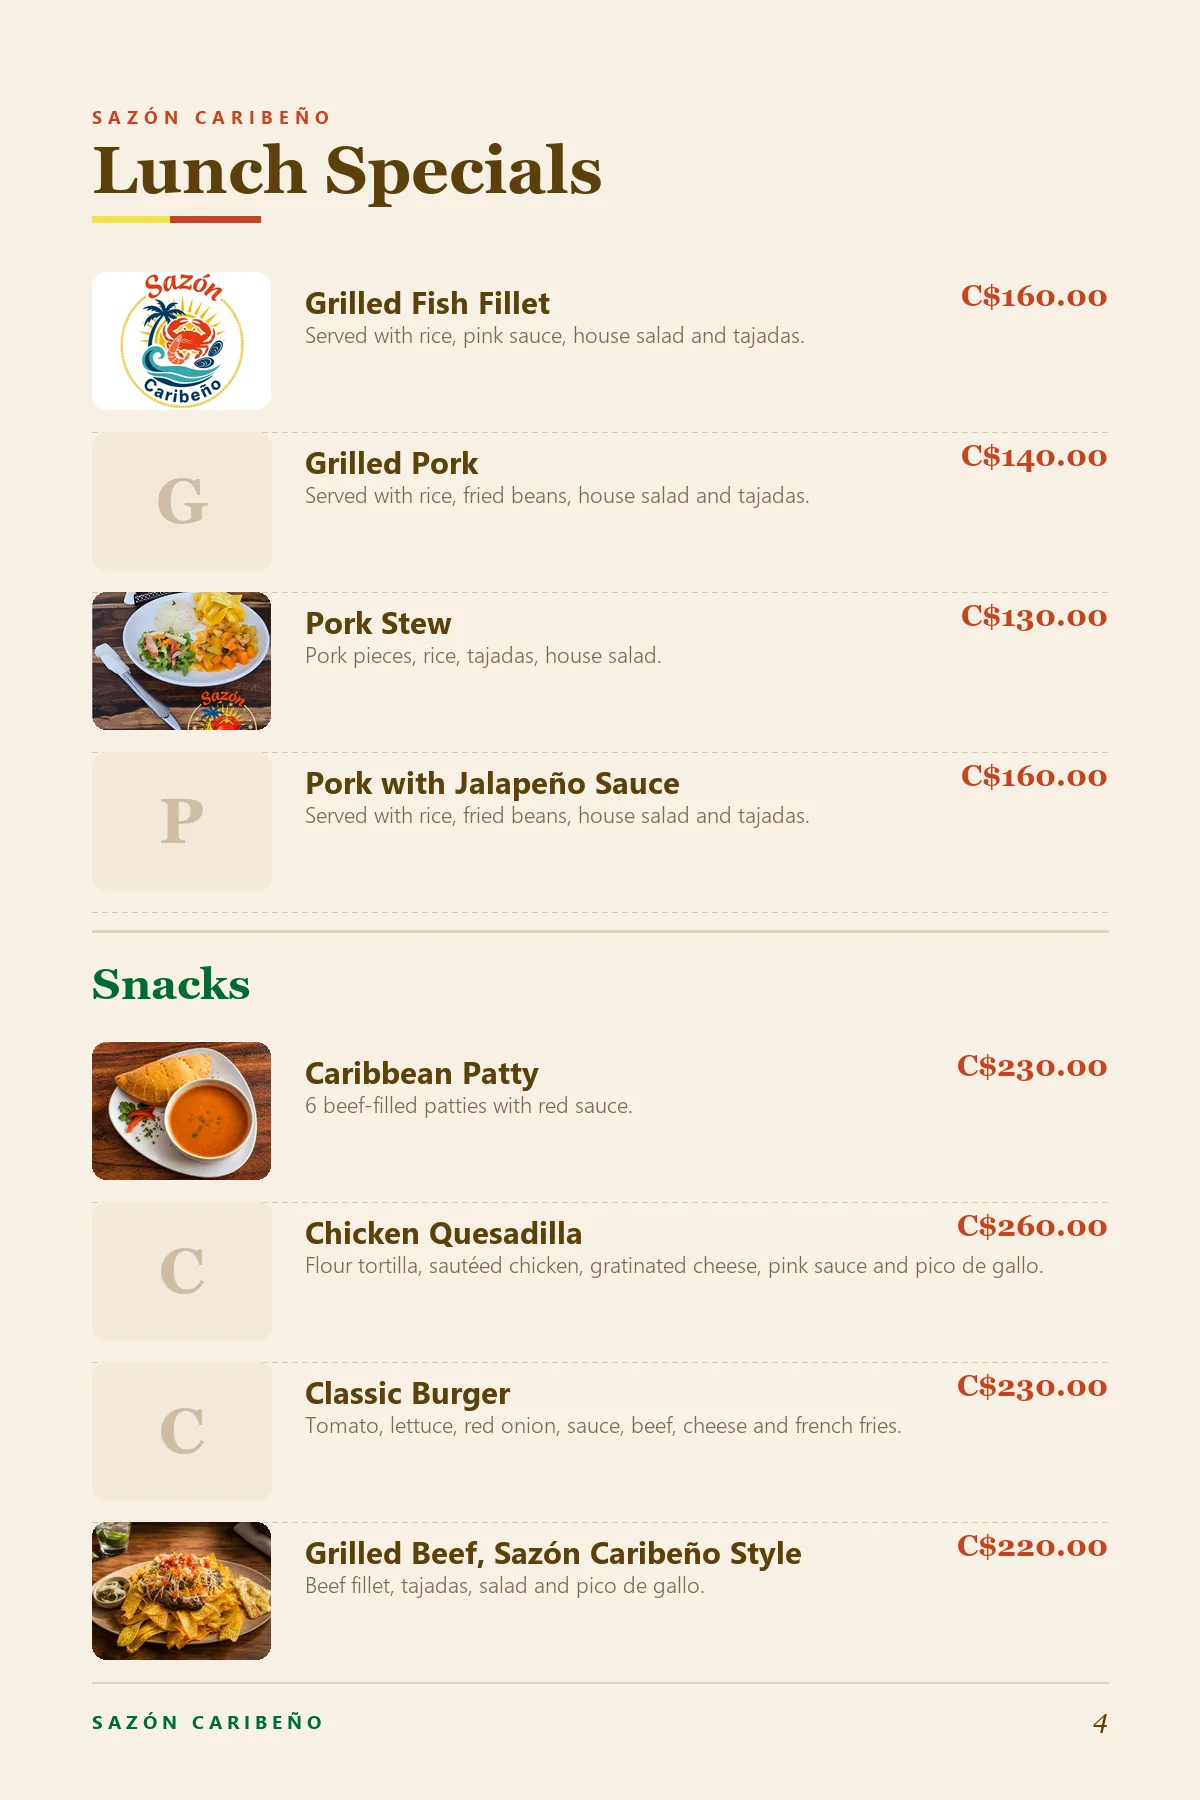
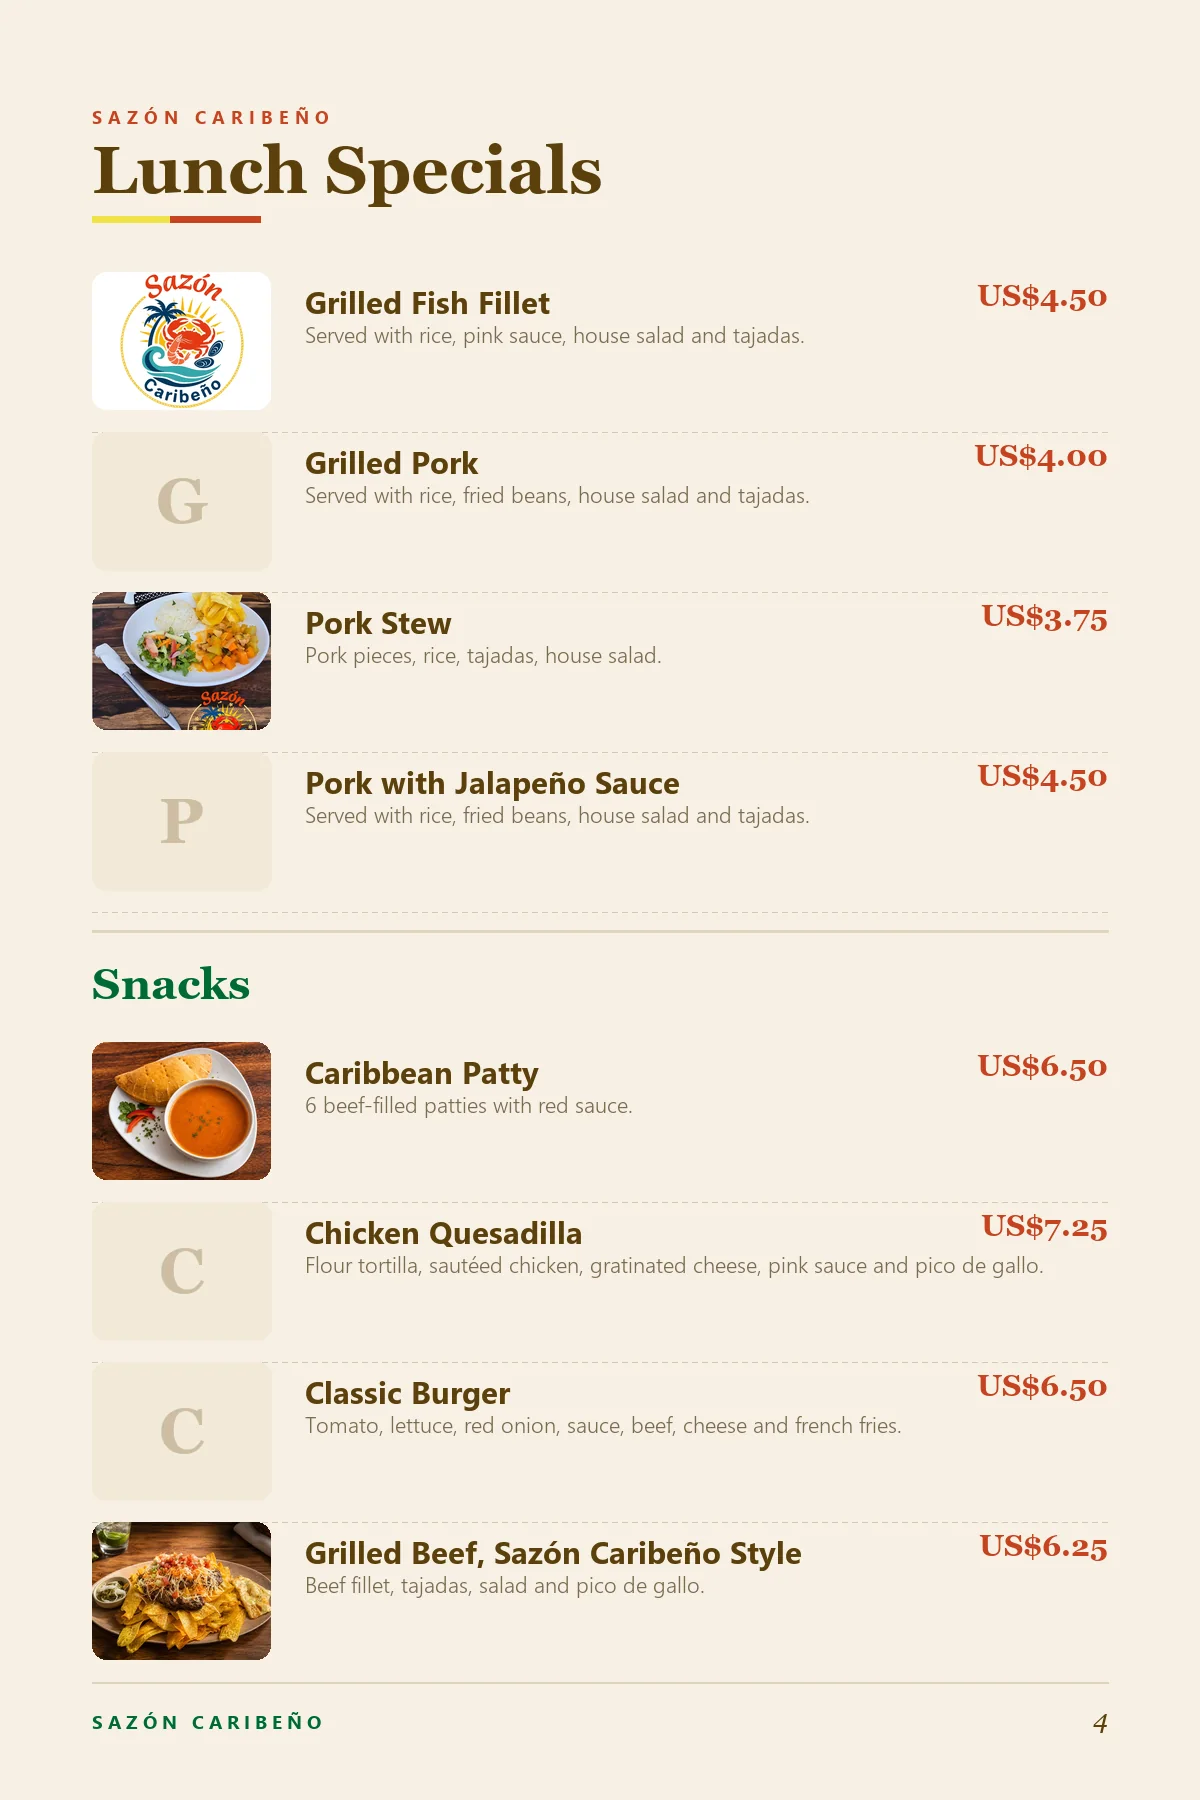
feat(carta): precios en dolares en la version en ingles
Las 11 paginas de paginas/en se regeneran con precios en US\$ (tipo de
cambio oficial BCN 36.62, redondeo hacia arriba a 0.25). La portada dice
NICARAGUA - US\$ - CARIBBEAN CUISINE y Extras 'All sides, in US\$'.

diff --git a/AGENTS.md b/AGENTS.md
@@ -596,8 +596,9 @@ No se tocó nada de la animación: `flippingTime: 900`, `drawShadow`, `maxShadow
 - **Selector**: `#btn-idioma-es` / `#btn-idioma-en` (`.idiomas` en la cabecera, `aria-pressed` marca el activo). Cambia `RUTA_PAGINAS` a `paginas/en/`, reconstruye las hojas, remonta el libro **conservando la página actual** (`getCurrentPageIndex()` → `turnToPage()`) y actualiza los textos de interfaz (`TEXTOS` en `menu-libro.js`): lema, botón Ampliar, pista, títulos/aria del visor, `alt` de cada hoja, `document.title` y `document.documentElement.lang`.
 - **Persistencia y enlace directo**: la elección se guarda en `localStorage` (`carta_idioma`); `?idioma=en` abre la carta directamente en inglés (se aplica sin pisar la preferencia guardada hasta que el usuario pulsa el selector).
 - **Respaldo**: si `paginas/en/01.webp` no existe, el motor arranca en español y el botón EN no cambia nada (nunca queda un libro vacío).
-- **Generación**: `python -X utf8 generar_paginas.py --idioma en` (en el prototipo del escritorio) consulta `/api/public/menu`, aplica `traducciones.json` (clave = nombre en español sin emojis) y escribe en `paginas/en/`. Sin el archivo de traducciones el script se detiene con un mensaje explícito; un plato sin traducción conserva su nombre original y se lista en el log.
-- **Alcance**: se traducen nombres, descripciones, títulos de sección, portada, contraportada y el pie; la marca `SAZÓN CARIBEÑO` y la moneda `C$` se mantienen. Los precios salen de la misma API, así que ambas versiones siempre coinciden.
+- **Generación**: `python -X utf8 generar_paginas.py --idioma en --tipo-cambio 36.62 --redondeo 0.25` (en el prototipo del escritorio) consulta `/api/public/menu`, aplica `traducciones.json` (clave = nombre en español sin emojis) y escribe en `paginas/en/`. Sin el archivo de traducciones el script se detiene con un mensaje explícito; un plato sin traducción conserva su nombre original y se lista en el log.
+- **Precios en dólares (solo inglés)**: la versión en inglés muestra los precios en **US$**. El generador convierte cada precio desde córdobas con `--tipo-cambio` (por defecto el oficial del BCN para 2026: `36.62`) y lo redondea **hacia arriba** a `--redondeo` (por defecto `US$0.25`) para no perder margen (`--redondeo 0` deja dos decimales exactos). Si cambia el tipo de cambio o la política de precios, se regeneran las páginas y se reemplazan los archivos; no hay conversión en vivo porque el libro son imágenes. La portada en inglés dice `NICARAGUA · US$ · CARIBBEAN CUISINE` y la sección Extras `All sides, in US$`.
+- **Alcance**: se traducen nombres, descripciones, títulos de sección, portada, contraportada y el pie; la marca `SAZÓN CARIBEÑO` se mantiene. Los precios salen de la misma API, así que ambas versiones siempre coinciden (la española en `C$`, la inglesa en `US$`).
 
 **Regenerar desde la base de datos**: el prototipo incluye `generar_paginas.py` (vive en el prototipo original, no en el repo), que consulta `/api/public/menu` y redibuja las hojas con las fotos reales.
 
